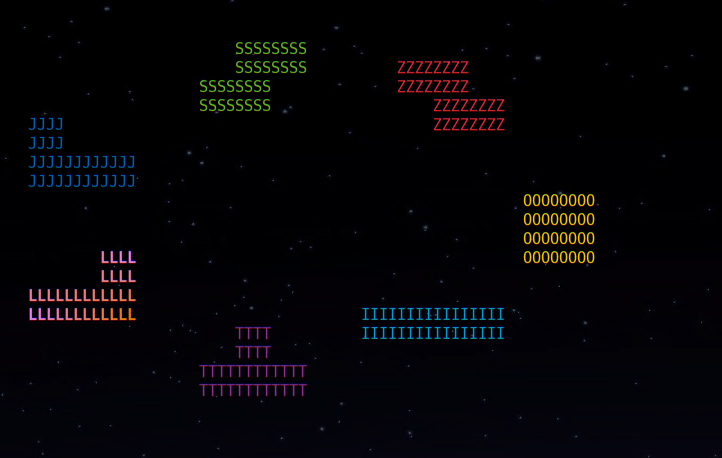
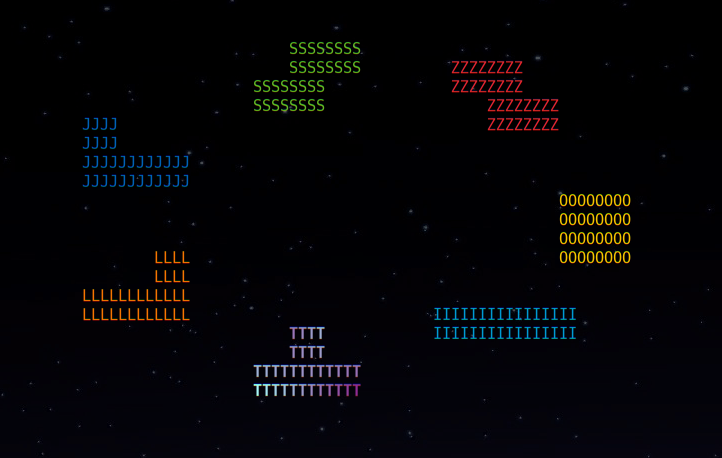
layout screenshots

diff --git a/004-notcurses/notcurses.tex b/004-notcurses/notcurses.tex
@@ -991,8 +991,8 @@ inputs against a set of periodic requirements; let's refresh ourselves:
   CPU\ldots\ which probably isn't a problem here, but isn't exactly a great foundation
   on which to build our cathedral, \textfrench{\textit{n'est-ce pas?}}.}
 \item{Two threads enter, one thread \texttt{exit()}s (hehehehe). We block on
-    input in our main thread. Another thread runs a ``timer wheel''---in truth,
-    for this, a loop around a \texttt{clock\_nanosleep()} will suffice. They
+    input in our main thread. Another thread runs a ``timer wheel''---for this,
+    a loop around a \texttt{clock\_nanosleep()} will suffice. They
     lock against one another to avoid corrupting the screen or otherwise
     embarassing ourselves. The solution reeks of Java, but will work well
     enough, and any programmer---maybe even a Java programmer---ought be able
@@ -1021,19 +1021,18 @@ operating system. I presume you can purchase cloud-based Timers as a Service
   \begin{minipage}{0.30\textwidth}
     \includegraphics[width=1\linewidth]{media/tetrimino-gradient2.png}
     \caption{Linear addition of space.}
-  \end{minipage}
-  \begin{minipage}{0.30\textwidth}
-    \includegraphics[width=1\linewidth]{media/tetrimino-gradient1.png}
   \end{minipage}\hfill
-  \caption{Trigonometric layout.}
+  \begin{minipage}{0.30\textwidth}
+    \includegraphics[width=1\linewidth]{media/tetrimino-gradient3.png}
+    \caption{Trigonometric layout.}
+  \end{minipage}\hfill
 \end{figure}
 
-% this basically just repeats -draw.h
-%\begin{listing}[!htbp]
-%\inputminted[]{C}{code/tetrimino-drawnice.h}
-%\caption{A little algebra unpacks the pieces (from~\texttt{tetrimino-input.c}).}
-%\label{list:tetrimino-drawnice}
-%\end{listing}
+\begin{listing}[!htbp]
+\inputminted[]{C}{code/tetrimino-drawnice.h}
+\caption{Trigonometric layout: simpler, yet more accurate (from~\texttt{tetrimino-input.c}).}
+\label{list:tetrimino-drawnice}
+\end{listing}
 
 \newpage
 %%%%%%%%%%%%%%%%%%%%%%%%%%%%%%%%%%%%%%%%%%%%%%%%%%%%%%%%%%%%%%%%%%%%%%%%
@@ -1490,15 +1489,15 @@ and
 %%%%%%%%%%%%%%%%%%%%%%%%%%%%%%%%%%%%%%%%%%%%%%%%%%%%%%%%%%%%%%%%%%%
 
 \section{Notcurses header files}
-\subsection{The \texttt{notcurses.h} header}
-\bgroup
-\inputminted[linenos,breaklines=true]{C}{code/notcurses.h}
-\egroup
-
-\subsection{The \texttt{nckeys.h} header}
-\bgroup
-\inputminted[linenos,breaklines=true]{C}{code/nckeys.h}
-\egroup
+%\subsection{The \texttt{notcurses.h} header}
+%\bgroup
+%\inputminted[linenos,breaklines=true]{C}{code/notcurses.h}
+%\egroup
+%
+%\subsection{The \texttt{nckeys.h} header}
+%\bgroup
+%\inputminted[linenos,breaklines=true]{C}{code/nckeys.h}
+%\egroup
 
 \end{appendices}
 \newpage

diff --git a/004-notcurses/code/tetrimino-drawcircle.h b/004-notcurses/code/tetrimino-drawcircle.h
@@ -9,7 +9,7 @@ static int draw_tetriminos(struct notcurses* nc, struct ncplane** minos, int dim
   for(int i = 0 ; i < piececount ; ++i){
     bool lift = strspn(tetriminos[i].texture, " ") == strlen(tetriminos[i].texture) / 2;
     if(!(minos[i] = tetrimino_plane(nc, i, centy + radius * sin(sector * i) - (ROWS_PER_GROW + lift * 2),
-        centx + aspect * radius * cos(sector * i) - strlen(tetriminos[i].texture) / COLS_PER_GCOL))){
+        centx + aspect * radius * cos(sector * i) - strlen(tetriminos[i].texture) / (2 * COLS_PER_GCOL)))){
       while(--i){
         ncplane_destroy(minos[i]);
       }
